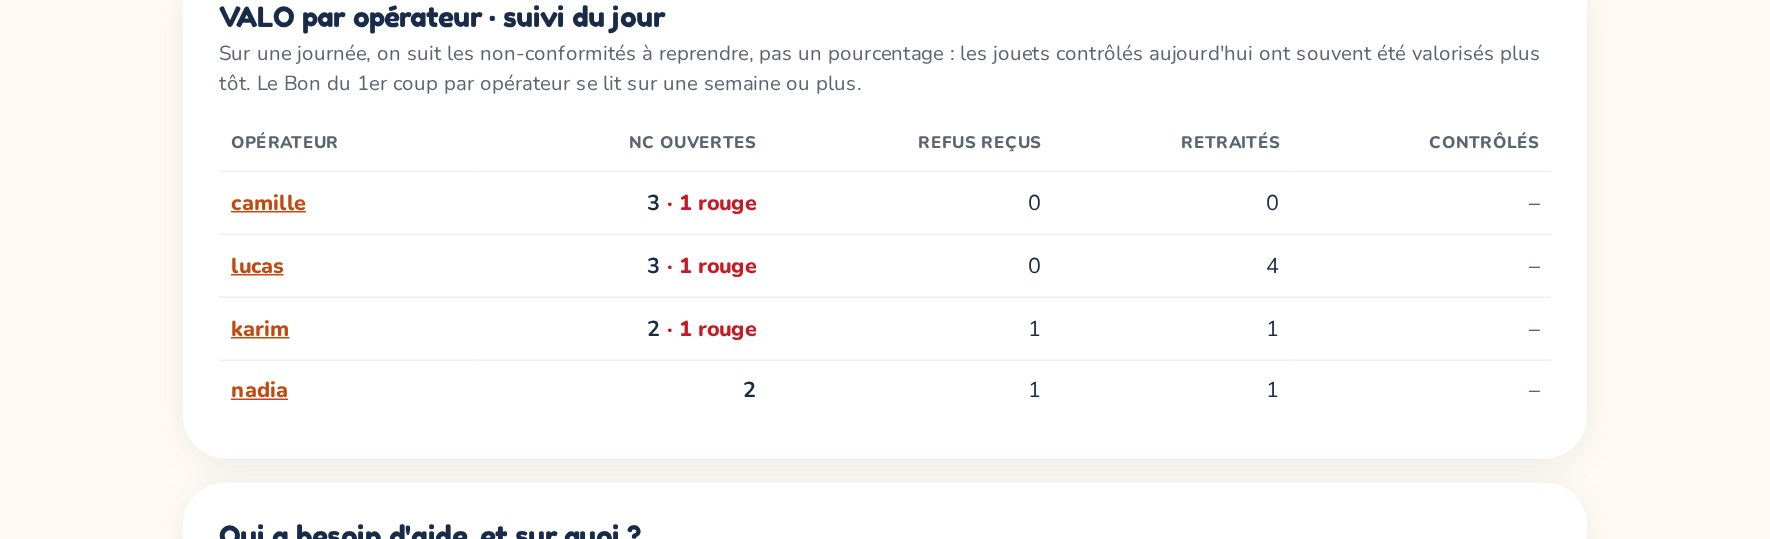
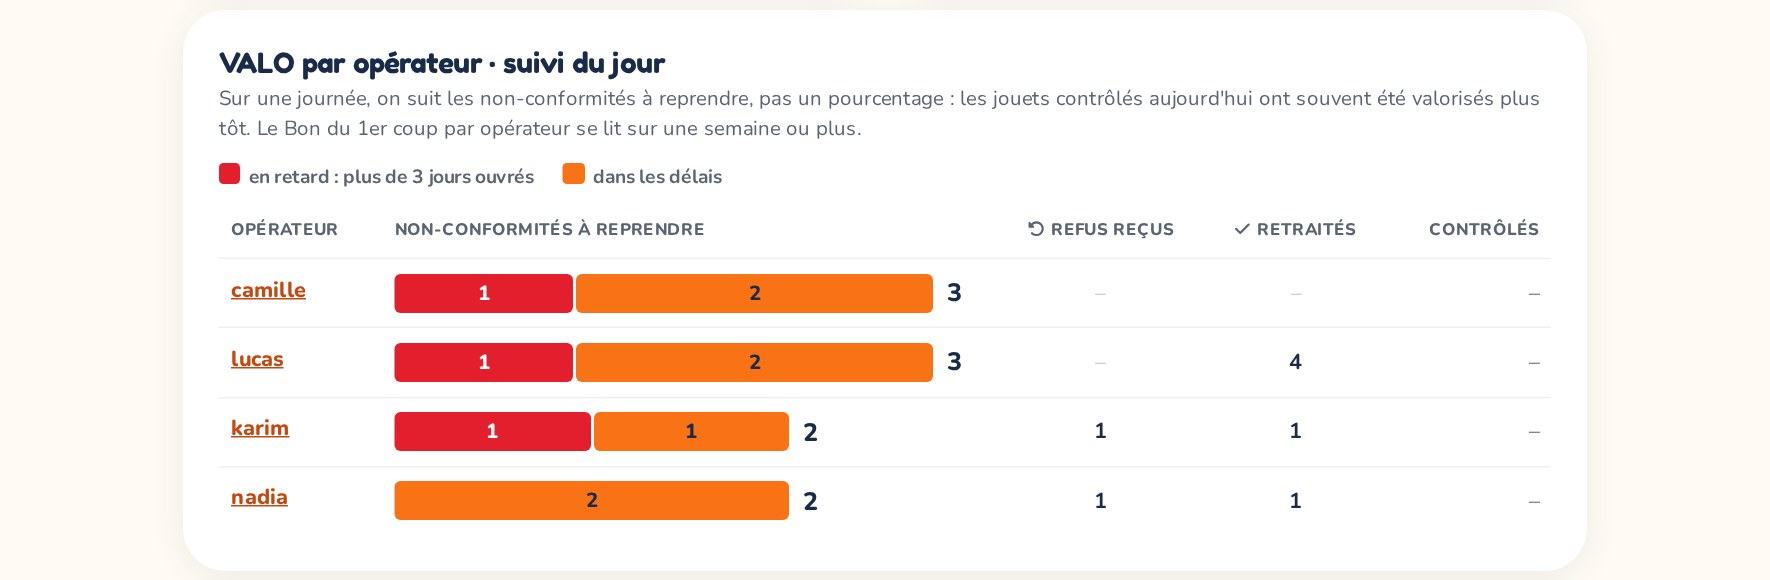
Tableau de bord : suivi du jour en barres, tableau opérateurs × causes en taux
Suivi du jour : le stock de chaque opérateur en barre, rouge (en retard) puis
orange (dans les délais), zéros estompés. « Qui a besoin d'aide » : problèmes
pour 100 contrôles au lieu du nombre brut, pour ne pas désigner à tort celui qui
traite le plus de jouets ; classement par taux, opérateurs sous le seuil en gris.

Claude-Session: https://claude.ai/code/session_01Ntw61KqSiSRAouwbz7PgoR

diff --git a/app/assets/stylesheets/pages/_dashboard.scss b/app/assets/stylesheets/pages/_dashboard.scss
@@ -740,6 +740,23 @@ $quality-ink: #5B6472;     // texte secondaire (contraste AA sur blanc)
   .quality-late { color: darken($danger-red, 12%); font-weight: 800; }
   .quality-none { color: $quality-ink; font-style: italic; }
   .quality-small-sample { color: $quality-ink; font-size: 0.85rem; font-weight: 700; }
+
+  // Suivi du jour : le stock de chaque opérateur en barre, rouge (en retard) puis orange (dans les délais).
+  .quality-legend { display: flex; flex-wrap: wrap; gap: 0.4rem 1.2rem; font-size: 0.8rem; font-weight: 700; color: $quality-ink; margin-bottom: 0.5rem; }
+  .quality-legend-swatch { display: inline-block; width: 0.9rem; height: 0.9rem; border-radius: 3px; margin-right: 0.35rem; vertical-align: -1px; }
+  .quality-stock { display: flex; align-items: center; gap: 0.6rem; }
+  .quality-stock-bar { display: flex; gap: 2px; height: 26px; min-width: 2.2rem; }
+  .quality-stock-bar span {
+    display: flex; align-items: center; justify-content: center; min-width: 1.6rem;
+    font-size: 0.85rem; font-weight: 800; border-radius: 4px;
+  }
+  .quality-stock-late { background: darken($danger-red, 6%); color: $white; }
+  .quality-stock-ontime { background: #F97316; color: $navy; }
+  .quality-stock-total { font-size: 1.05rem; font-weight: 800; color: $navy; min-width: 1.5rem; }
+  .quality-stock-none { color: $quality-ok; font-weight: 700; font-size: 0.85rem; }
+  .quality-zero { color: rgba($navy, 0.3); }
+  .quality-day-checked { color: $quality-ink; white-space: nowrap; }
+  .quality-table--day tbody td { vertical-align: middle; }
 }
 
 .quality-now {
@@ -821,7 +838,11 @@ $quality-ink: #5B6472;     // texte secondaire (contraste AA sur blanc)
   thead th { font-size: 0.7rem; font-weight: 800; color: $quality-ink; text-transform: uppercase; }
   tbody th { text-align: left; font-weight: 800; white-space: nowrap; }
   .quality-cell { border-radius: 8px; font-weight: 800; padding: 0; }
-  .quality-cell a, .quality-cell span { display: block; padding: 0.7rem 0.3rem; color: inherit; text-decoration: none; }
+  .quality-cell a, .quality-cell span { display: block; padding: 0.55rem 0.3rem; color: inherit; text-decoration: none; line-height: 1.15; }
+  // Le taux en grand, le nombre brut en petit dessous.
+  small { display: block; font-size: 0.7rem; font-weight: 700; opacity: 0.8; }
+  .quality-matrix-total { font-weight: 700; white-space: nowrap; }
+  .quality-matrix-unreliable { color: $quality-ink; th { font-weight: 700; } .quality-cell { font-weight: 700; } }
   // Rampe séquentielle une seule teinte (marine), du clair au foncé.
   .quality-cell--0 { background: #F4F5F7; color: $quality-ink; }
   .quality-cell--1 { background: #DCE3EE; }
@@ -904,6 +925,7 @@ $quality-ink: #5B6472;     // texte secondaire (contraste AA sur blanc)
     .quality-now-grid { grid-template-columns: repeat(4, minmax(0, 1fr)); }
   }
   .quality-split-ok, .quality-split-ko, .quality-rate-fill, .quality-rate-track, .quality-bar-fill, .quality-bar-track,
+  .quality-stock-bar span, .quality-legend-swatch,
   .quality-cell, .quality-now-tile, .quality-trend {
     -webkit-print-color-adjust: exact; print-color-adjust: exact;
   }

diff --git a/app/models/quality_dashboard.rb b/app/models/quality_dashboard.rb
@@ -108,6 +108,7 @@ class QualityDashboard
         mine = refusals.select { |c| c.operator_id == id }
         opened = open_checks.select { |c| c.operator_id == id }
         { user: users[id], id: id, total: firsts.size, ok: firsts.count(&:accepted?),
+          controls: firsts.size + second_round.count { |c| c.operator_id == id },
           fpy: rate(firsts.count(&:accepted?), firsts.size), refused: mine.size,
           problems: mine.sum { |c| causes_of(c).size }, causes: mine.flat_map { |c| causes_of(c) }.tally,
           delay: average_days(mine.select(&:reworked_at)) { |c| WorkingDays.elapsed(c.created_at, c.reworked_at) },
@@ -124,7 +125,22 @@ class QualityDashboard
   end
 
   def matrix_causes = cause_rows.first(TOP_CAUSES).map { |row| row[:cause] }
-  def matrix_max = operator_rows.flat_map { |row| row[:causes].values }.max.to_i
+
+  # Tableau opérateurs × causes, en problèmes pour 100 contrôles (1er et 2e tours,
+  # puisque les problèmes des deux tours sont comptés) et non en nombre brut :
+  # sinon celui qui traite le plus de jouets paraît le plus en difficulté. Les opérateurs sous le seuil de fiabilité gardent leurs nombres
+  # bruts, sans couleur, en bas du tableau.
+  def matrix_rows
+    @matrix_rows ||= begin
+      rows = operator_rows.select { |row| row[:problems].positive? }.map do |row|
+        rates = row[:reliable] ? row[:causes].transform_values { |count| count * 100.0 / row[:controls] } : {}
+        row.merge(rates: rates, problem_rate: (row[:problems] * 100.0 / row[:controls] if row[:reliable]))
+      end
+      rows.sort_by { |row| [row[:reliable] ? 0 : 1, -(row[:problem_rate] || 0), -row[:problems]] }
+    end
+  end
+
+  def matrix_max_rate = matrix_rows.flat_map { |row| row[:rates].values_at(*matrix_causes.map(&:key)).compact }.max.to_f
 
   # ── TRI ─────────────────────────────────────────────────────────────────
   def toys_out

diff --git a/test/models/quality_dashboard_test.rb b/test/models/quality_dashboard_test.rb
@@ -117,6 +117,22 @@ class QualityDashboardTest < ActiveSupport::TestCase
     end
   end
 
+  test "tableau opérateurs × causes : en taux pour 100 jouets, pas en nombre brut" do
+    QualitySetting.current.update!(min_sample: 5)
+    18.times { check(@alice, "market") }
+    2.times { check(@alice, "review", causes: %w[completude], comment: "Incomplet") } # 2 problèmes sur 20 = 10 %
+    3.times { check(@bob, "market") }
+    2.times { check(@bob, "review", causes: %w[completude], comment: "Incomplet") }   # 2 problèmes sur 5 = 40 %
+    carl = create_user(email: "carl@example.com")
+    check(carl, "review", causes: %w[completude], comment: "Incomplet")               # 1 jouet : sous le seuil
+
+    rows = QualityDashboard.new(@range).matrix_rows
+    assert_equal %w[bob alice carl], rows.map { |row| row[:user].email.split("@").first }, "le plus fort taux d'abord, pas le plus gros volume"
+    assert_equal [40.0, 10.0, nil], rows.map { |row| row[:rates]["completude"] }
+    assert_equal [40.0, 10.0, nil], rows.map { |row| row[:problem_rate] }
+    assert_equal 40.0, QualityDashboard.new(@range).matrix_max_rate
+  end
+
   test "sans données, rien ne casse" do
     q = QualityDashboard.new(@range)
     assert_nil q.fpy_valo

diff --git a/test/controllers/pages_controller_test.rb b/test/controllers/pages_controller_test.rb
@@ -52,6 +52,7 @@ class PagesControllerTest < ActionDispatch::IntegrationTest
     assert_select ".quality-small-sample", text: /Moins de 20 jouets/
     assert_select "h3", text: /suivi du jour/
     assert_select ".quality-table th", text: "Retraités"
+    assert_select ".quality-stock-bar .quality-stock-ontime", text: "1" # le refus du jour, dans les délais
     get dashboard_path(period: "four_weeks")
     assert_select ".quality-small-sample", text: "1 sur 2"
 
